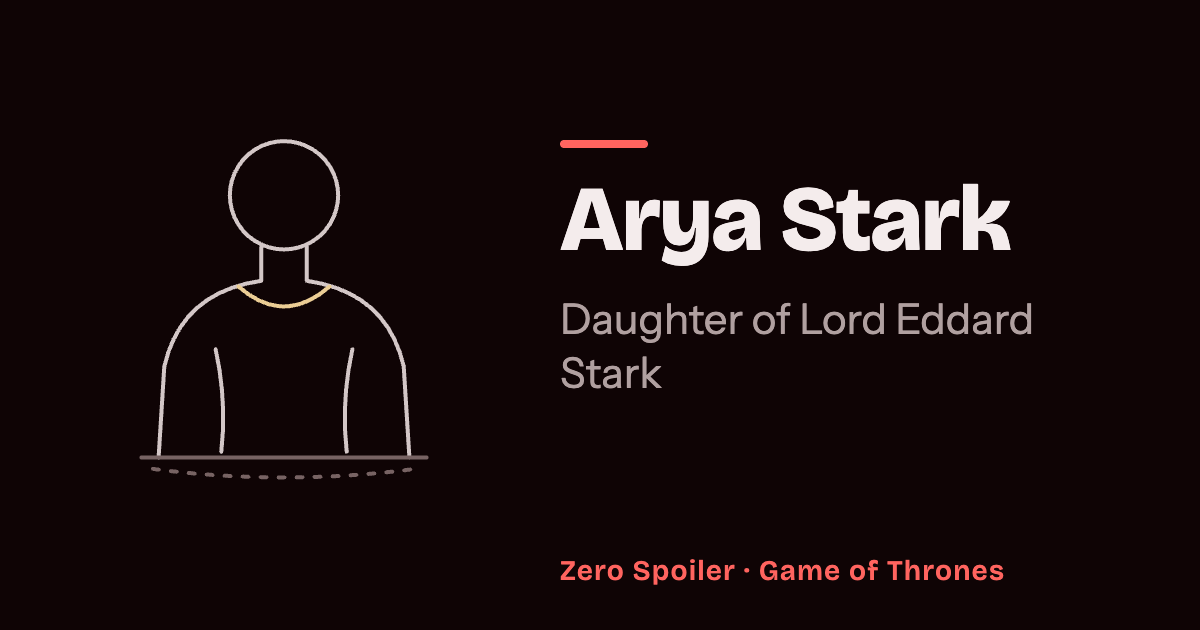
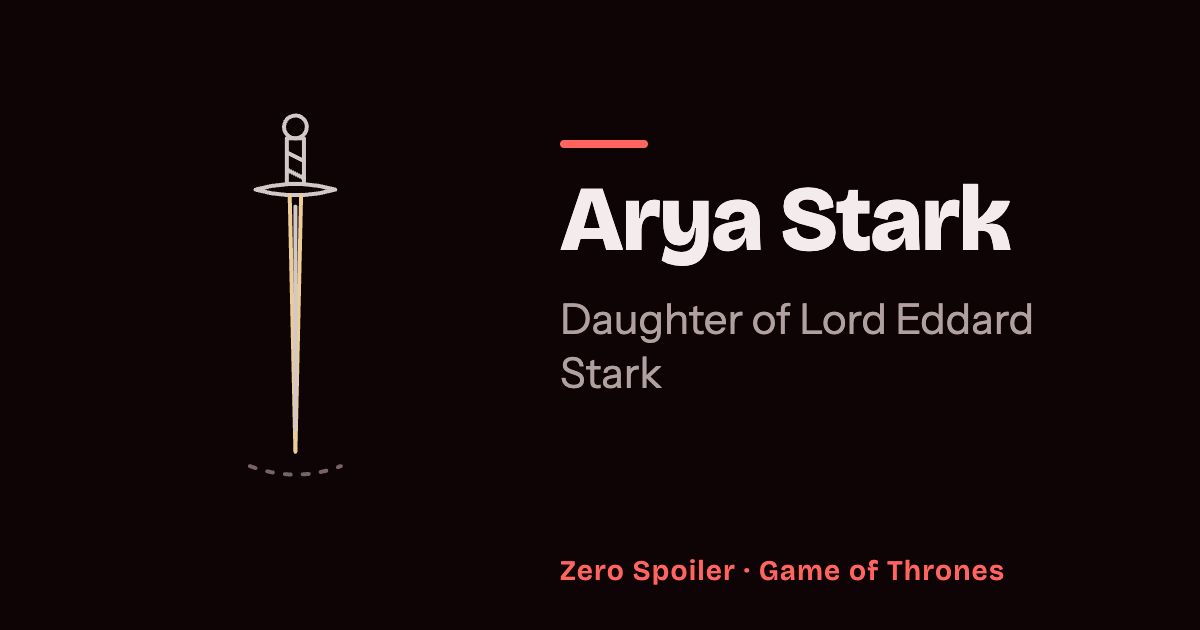
feat(art): draw Arya Stark with Needle from her threshold (#1100)

Changed region(s): [[0.1542, 0.181, 0.3083, 0.6635], [0.1233, 0.4825, 0.37, 0.7841]]

diff --git a/src/data/series/game-of-thrones/art/winterfell.ts b/src/data/series/game-of-thrones/art/winterfell.ts
@@ -77,9 +77,9 @@ const HOOP: Stroke[] = [
  * Arya Stark: Needle, the slim sword Jon has made for her, stood on its
  * point: a small pommel, the wrapped grip, a thin crossguard and a blade
  * hardly wider than the line, which is the accent. He gives it to her in
- * episode 2 and in Jon II (chapter 11), after her own threshold in both
- * media, so it is a stage; until then she shows the placeholder (owner,
- * #854).
+ * episode 2 and in Jon II (chapter 11), within her first season and her
+ * first book, so it is her first drawing: the object every reader knows her
+ * by (owner, 2026-11-05, #1058).
  */
 const NEEDLE: Stroke[] = [
   { d: circle(84, 34, 4) },
@@ -519,16 +519,12 @@ export const WINTERFELL_DRAWINGS = {
   'hodor': STABLE,
   'osha': SPEAR,
   'mordane': NEEDLEWORK,
+  'arya-stark': NEEDLE,
   'jory-cassel': [...HELM, shadow(80, 132, 44)],
 } satisfies Drawings
 
 /** Their later stages, each with its true pin in each medium. */
 export const winterfellRedrawn: Redrawings = {
-  'arya-stark': [
-    // Needle, from the episode and the chapter Jon gives it to her: "The
-    // Kingsroad" (episode 2) and Jon II (chapter 11).
-    { episode: 2, chapter: 11, value: NEEDLE },
-  ],
   'bran-stark': [
     // The broken tower he climbs, its corner seen in 3/4 with the stone
     // courses, the handholds and the high window in the accent: the book

diff --git a/src/server/archive/thronesSeason1.test.ts b/src/server/archive/thronesSeason1.test.ts
@@ -742,9 +742,9 @@ describe.each([
 
 /**
  * The Winterfell household's stages (#854) and the southern cast's (#1051),
- * each pinned in the units that tell it: Arya's Needle, Bran's climb, which
- * the book alone shows after his threshold, the deaths, Barristan's thrown
- * sword and Syrio's snapped blade.
+ * each pinned in the units that tell it: Bran's climb, which the book alone
+ * shows after his threshold, the deaths, Barristan's thrown sword and Syrio's
+ * snapped blade.
  */
 const STAGES: {
   chapter: number
@@ -755,7 +755,6 @@ const STAGES: {
   { id: 'lady-direwolf', episode: 2, chapter: 17 },
   { id: 'jory-cassel', episode: 5, chapter: 36 },
   { id: 'mordane', episode: 10, chapter: 68 },
-  { id: 'arya-stark', episode: 2, chapter: 11 },
   { id: 'bran-stark', episode: 2, chapter: 9, source: 'chapter' },
   { id: 'robert-baratheon', episode: 7, chapter: 50 },
   { id: 'barristan-selmy', episode: 8, chapter: 58 },

diff --git a/src/data/series/game-of-thrones/art/index.ts b/src/data/series/game-of-thrones/art/index.ts
@@ -129,16 +129,13 @@ const PLACE: Stroke[] = [
  * for. The Winterfell household's are in `winterfell.ts` (#854), the
  * southern cast's in `south.ts` (#1051), with the four leads drawn for the
  * launch here (owner, #856); every other record
- * shows `PERSON` or `PLACE` until its own issue draws it. Arya Stark keeps
- * `PERSON` until #1058 rules on her first drawing, and has Needle as a stage
- * from episode 2. `satisfies` rather than an annotation, so `ArtId` below
- * stays the literal keys.
+ * shows `PERSON` or `PLACE` until its own issue draws it. `satisfies`
+ * rather than an annotation, so `ArtId` below stays the literal keys.
  */
 export const DRAWINGS = {
   ...WINTERFELL_DRAWINGS,
   ...SOUTH_DRAWINGS,
   'eddard-stark': ICE_STANDING,
-  'arya-stark': PERSON,
   'jon-snow': RUNT,
   'jeor-mormont': PERSON,
   'aemon': PERSON,

diff --git a/docs/architecture.md b/docs/architecture.md
@@ -159,7 +159,7 @@ those only one medium names in the stage are `source`-only, and those the other
 medium meets in a later season or book keep that later gate. It opened before
 its drawings: Eddard, Jon, Daenerys and Tyrion have their own, Eddard's with a
 death stage, the Winterfell household's are in `art/winterfell.ts` (#854), with
-five stages, and the southern cast's are in `art/south.ts` (#1051), with three.
+four stages, and the southern cast's are in `art/south.ts` (#1051), with three.
 Every other record maps to a shared placeholder in `art/index.ts`, `PERSON` for
 a character and `PLACE` for a place, until its own issue draws it, so the
 drawing tests hold it like any series. Its 23 places (#853) are the ones a scene
@@ -286,7 +286,7 @@ checks this block.
 | Characters        | 123                                                 |
 | Places            | 23                                                  |
 | Saga modules      | 1                                                   |
-| Line drawings     | 146, one per record, plus 9 redrawings of 9 records |
+| Line drawings     | 146, one per record, plus 8 redrawings of 8 records |
 | Chronicle stories | 0, for 0 characters                                 |
 
 <!-- End of the generated counts. -->
